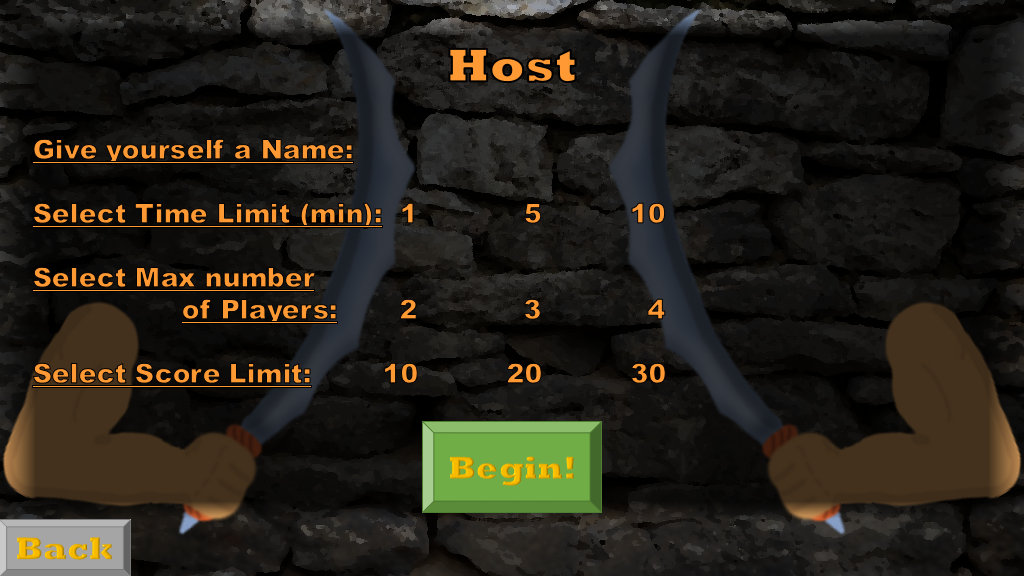
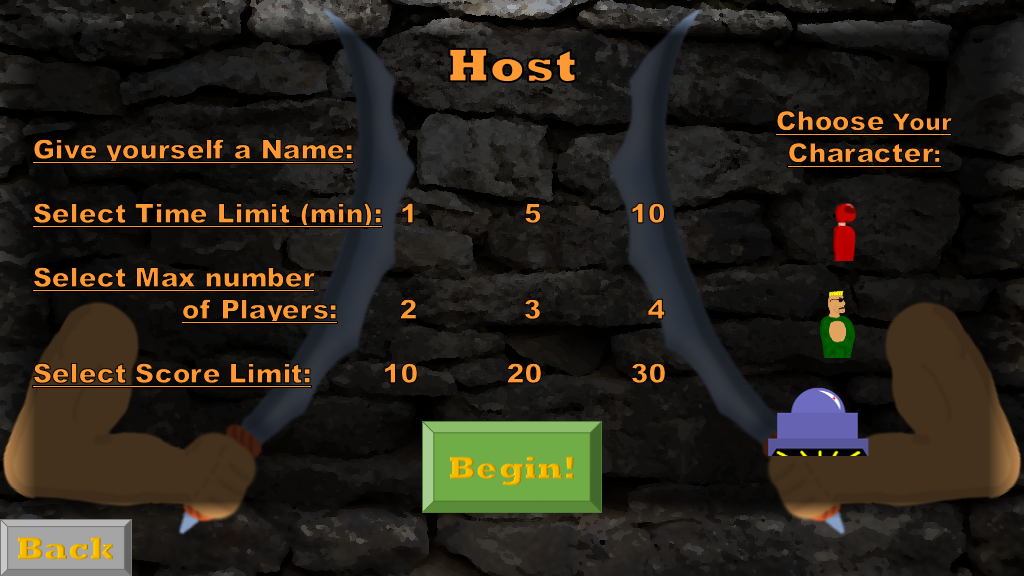
Fixed issue5: part 2, added character selection to join/host menus

diff --git a/UC/src/uc/MenuState.java b/UC/src/uc/MenuState.java
@@ -83,10 +83,34 @@ public class MenuState extends BasicGameState {
 			g.drawImage(ResourceManager.getImage(UCGame.JOIN_RSC), 0f, 0f);
 			name.render(container, g);
 			address.render(container,g);
+			
+			switch(UCGame.character){
+			case 0:
+				g.drawImage(arrow, 565, 265);
+				break;
+			case 1:
+				g.drawImage(arrow, 695, 265);
+				break;
+			case 2:
+				g.drawImage(arrow, 885, 265);
+				break;
+			}
 			break;
 		case 2:
 			g.drawImage(ResourceManager.getImage(UCGame.HOST_RSC), 0f, 0f);
 			name.render(container, g);
+			
+			switch(UCGame.character){
+			case 0:
+				g.drawImage(arrow, 858, 198);
+				break;
+			case 1:
+				g.drawImage(arrow, 858, 293);
+				break;
+			case 2:
+				g.drawImage(arrow, 864, 396);
+				break;
+			}
 			
 			switch(timeLim){
 			case 0:
@@ -202,6 +226,23 @@ public class MenuState extends BasicGameState {
 					// This is where the client launching code will be called and all that jazz....
 				}
 			}
+			
+			if((mouseX > 535 && mouseX < 575) && (mouseY < 335 && mouseY > 270)){
+				if(input.isMousePressed(0)){
+					UCGame.character = 0;
+				}
+			}
+			if((mouseX > 650 && mouseX < 700) && (mouseY < 340 && mouseY > 260)){
+				if(input.isMousePressed(0)){
+					UCGame.character = 1;
+				}
+			}
+			if((mouseX > 780 && mouseX < 890) && (mouseY < 335 && mouseY > 260)){
+				if(input.isMousePressed(0)){
+					UCGame.character = 2;
+				}
+			}
+			
 						
 			break;
 		case 2: // Host game menu
@@ -220,6 +261,22 @@ public class MenuState extends BasicGameState {
 					System.out.println("Begin/Host the Game!");
 					System.out.println("The player's name is: " + name.getText());
 					// This is where the server launching code will be called and all that jazz....
+				}
+			}
+			
+			if((mouseX > 830 && mouseX < 860) && (mouseY < 265 && mouseY > 200)){
+				if(input.isMousePressed(0)){
+					UCGame.character = 0;
+				}
+			}
+			if((mouseX > 813 && mouseX < 860) && (mouseY < 360 && mouseY > 288)){
+				if(input.isMousePressed(0)){
+					UCGame.character = 1;
+				}
+			}
+			if((mouseX > 764 && mouseX < 871) && (mouseY < 457 && mouseY > 386)){
+				if(input.isMousePressed(0)){
+					UCGame.character = 2;
 				}
 			}
 			
